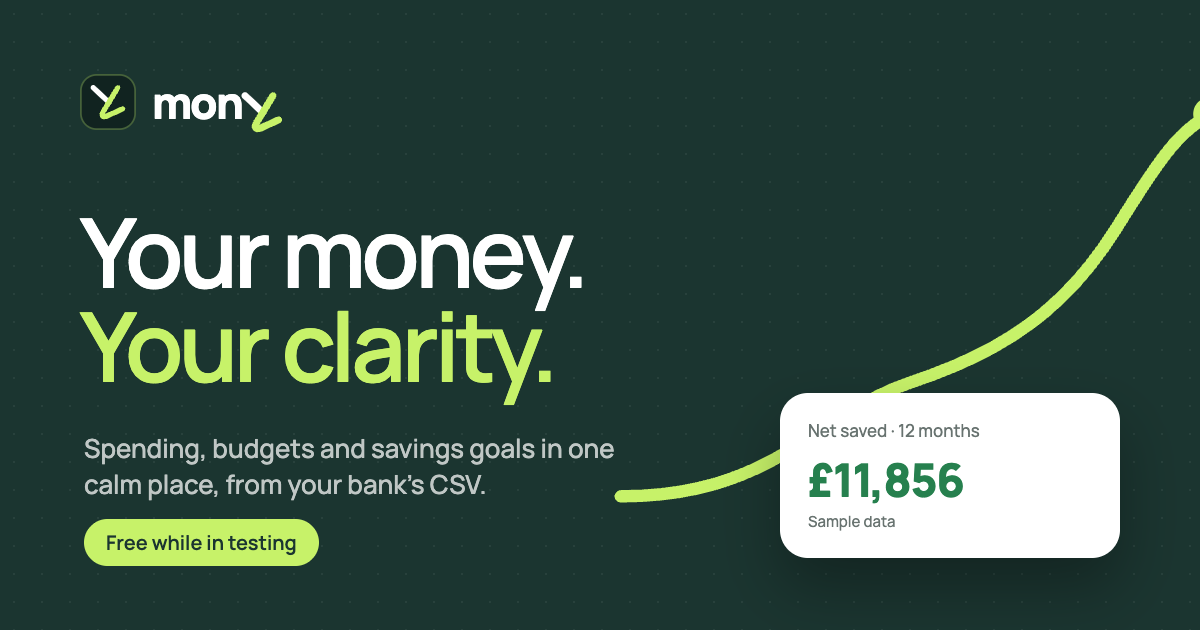
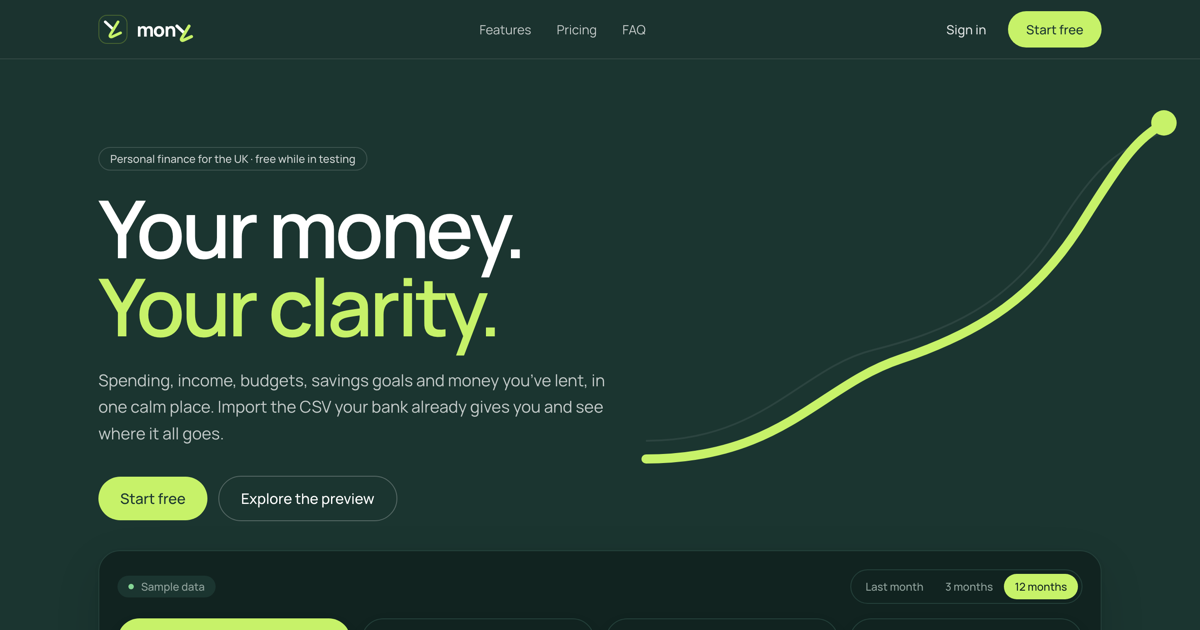
Use the hero as the share image and default SITE_URL on Vercel (#6)

diff --git a/scripts/seo.test.ts b/scripts/seo.test.ts
@@ -1,6 +1,13 @@
 import { describe, expect, it } from 'vitest';
 
-import { injectSiteUrl, PLACEHOLDER_SITE_URL, resolveSiteUrl, robotsTxt, sitemapXml } from './seo';
+import {
+  injectSiteUrl,
+  PLACEHOLDER_SITE_URL,
+  resolveSiteUrl,
+  robotsTxt,
+  sitemapXml,
+  siteUrlFromEnv,
+} from './seo';
 
 describe('resolveSiteUrl', () => {
   it('uses the configured address without a trailing slash', () => {
@@ -22,6 +29,28 @@ describe('resolveSiteUrl', () => {
   it('rejects something that is not an http(s) address', () => {
     expect(() => resolveSiteUrl('mony.app')).toThrow(/SITE_URL/);
     expect(() => resolveSiteUrl('ftp://mony.app')).toThrow(/SITE_URL/);
+  });
+});
+
+describe('siteUrlFromEnv', () => {
+  it('prefers an explicit SITE_URL', () => {
+    expect(
+      siteUrlFromEnv({
+        SITE_URL: 'https://mony.app',
+        VERCEL_PROJECT_PRODUCTION_URL: 'x.vercel.app',
+      }),
+    ).toBe('https://mony.app');
+  });
+
+  it("falls back to Vercel's production domain, which Vercel sets without a scheme", () => {
+    expect(siteUrlFromEnv({ VERCEL_PROJECT_PRODUCTION_URL: 'mony-gray.vercel.app' })).toBe(
+      'https://mony-gray.vercel.app',
+    );
+  });
+
+  it('is undefined when neither is set, so the placeholder applies', () => {
+    expect(siteUrlFromEnv({})).toBeUndefined();
+    expect(siteUrlFromEnv({ SITE_URL: ' ', VERCEL_PROJECT_PRODUCTION_URL: '' })).toBeUndefined();
   });
 });
 

diff --git a/vite.config.ts b/vite.config.ts
@@ -3,15 +3,16 @@ import path from 'node:path';
 import react from '@vitejs/plugin-react';
 import { defineConfig, loadEnv } from 'vite';
 
-import { seoPlugin } from './scripts/seo';
+import { seoPlugin, siteUrlFromEnv } from './scripts/seo';
 
 export default defineConfig(({ mode }) => {
   // SITE_URL is build-only (share tags, robots.txt, sitemap), so read it with an
-  // empty prefix rather than exposing it as a VITE_ variable.
-  const { SITE_URL } = { ...loadEnv(mode, process.cwd(), ''), ...process.env };
+  // empty prefix rather than exposing it as a VITE_ variable. On Vercel it falls
+  // back to the project's production domain.
+  const env = { ...loadEnv(mode, process.cwd(), ''), ...process.env };
 
   return {
-    plugins: [react(), seoPlugin(SITE_URL)],
+    plugins: [react(), seoPlugin(siteUrlFromEnv(env))],
     resolve: {
       alias: {
         '@': path.resolve(__dirname, './src'),

diff --git a/scripts/seo.ts b/scripts/seo.ts
@@ -15,6 +15,18 @@ export const PLACEHOLDER_SITE_URL = 'https://mony.example';
 
 const TOKEN = /__SITE_URL__/g;
 
+/**
+ * The address to build with: SITE_URL if set, else the production domain
+ * Vercel exposes to builds (VERCEL_PROJECT_PRODUCTION_URL, no scheme), so
+ * Vercel deploys get working previews without extra config.
+ */
+export function siteUrlFromEnv(env: Record<string, string | undefined>): string | undefined {
+  const explicit = env.SITE_URL?.trim();
+  if (explicit) return explicit;
+  const vercel = env.VERCEL_PROJECT_PRODUCTION_URL?.trim();
+  return vercel ? `https://${vercel}` : undefined;
+}
+
 export function resolveSiteUrl(raw: string | undefined): { url: string; placeholder: boolean } {
   const value = raw?.trim();
   if (!value) return { url: PLACEHOLDER_SITE_URL, placeholder: true };

diff --git a/CLAUDE.md b/CLAUDE.md
@@ -29,7 +29,7 @@ Imports are sorted and grouped by ESLint ([eslint-plugin-simple-import-sort](esl
 
 `test:db` and `test:rls` need `npm run db:start` first. The isolation tests read keys from `supabase status` and refuse to run against a non-loopback URL. Any new table, RPC or Edge Function needs matching cases in `tests/rls/`; a security change isn't done until a test shows the attack fails.
 
-`npm run dev` will throw immediately if `.env.local` is missing or invalid — env is validated by Zod at startup ([src/shared/lib/env.ts](src/shared/lib/env.ts)). Copy `.env.local.example` → `.env.local`; its defaults (URL + the CLI's fixed local publishable key) work as-is against `npm run db:start`. For a hosted project supply its URL + **publishable/anon** key (never the secret/service_role key). Those are the only `VITE_` vars: anything in them ships in the public bundle, so per-user settings belong in `profiles`, not env. `SITE_URL` (not `VITE_`) is build-only: [scripts/seo.ts](scripts/seo.ts) bakes it into the share tags in `index.html` and emits `robots.txt`/`sitemap.xml`; regenerate `public/og-image.png` if the brand changes. Base currency is the constant `BASE_CURRENCY = 'GBP'`. `npm run build` does _not_ need env (validation is runtime, in the browser).
+`npm run dev` will throw immediately if `.env.local` is missing or invalid — env is validated by Zod at startup ([src/shared/lib/env.ts](src/shared/lib/env.ts)). Copy `.env.local.example` → `.env.local`; its defaults (URL + the CLI's fixed local publishable key) work as-is against `npm run db:start`. For a hosted project supply its URL + **publishable/anon** key (never the secret/service_role key). Those are the only `VITE_` vars: anything in them ships in the public bundle, so per-user settings belong in `profiles`, not env. `SITE_URL` (not `VITE_`) is build-only: [scripts/seo.ts](scripts/seo.ts) bakes it into the share tags in `index.html` and emits `robots.txt`/`sitemap.xml`; on Vercel it falls back to `VERCEL_PROJECT_PRODUCTION_URL`. `public/og-image.png` is a 1200×630 screenshot of the landing hero (banner dismissed); retake it if the hero changes. Base currency is the constant `BASE_CURRENCY = 'GBP'`. `npm run build` does _not_ need env (validation is runtime, in the browser).
 
 ## Phased build — read before adding features
 

diff --git a/README.md b/README.md
@@ -80,7 +80,8 @@ Migrations are never applied automatically.
 5. Keep API **max rows** at 1,000 or more.
 6. Build with `VITE_SUPABASE_URL`, `VITE_SUPABASE_ANON_KEY` and `SITE_URL` (the public
    address; it fills the link-preview tags, canonical URL, `robots.txt` and
-   `sitemap.xml`).
+   `sitemap.xml`). On Vercel, `SITE_URL` defaults to the project's production
+   domain. The share image is `public/og-image.png`, a 1200×630 shot of the hero.
 
 ## Layout
 
